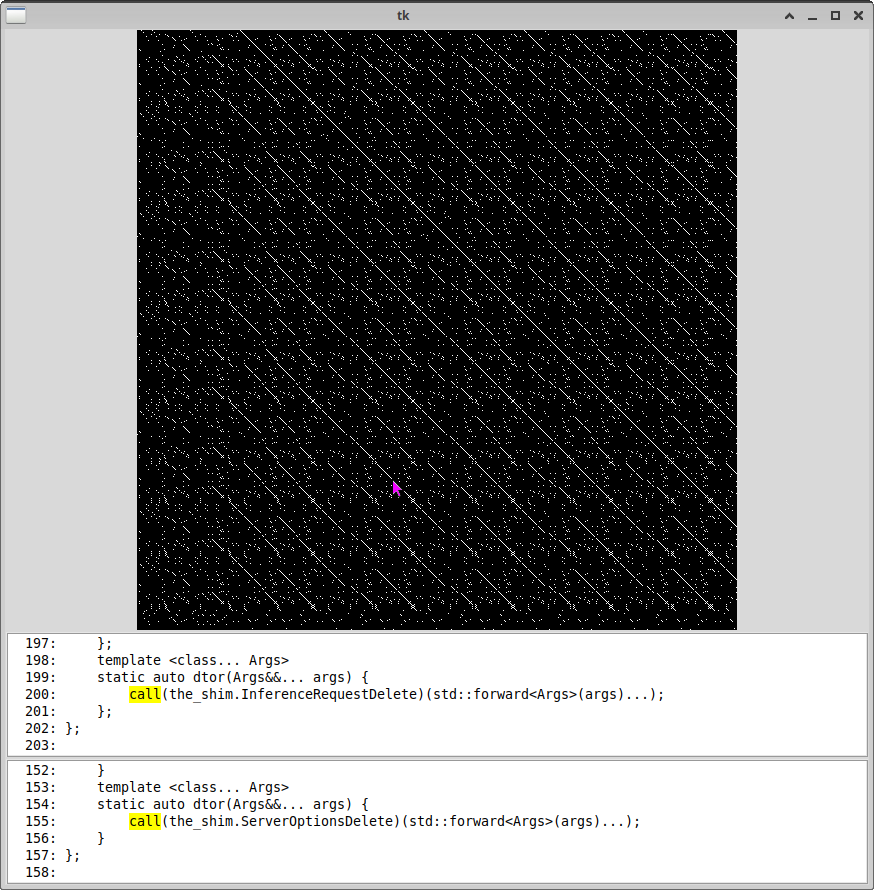
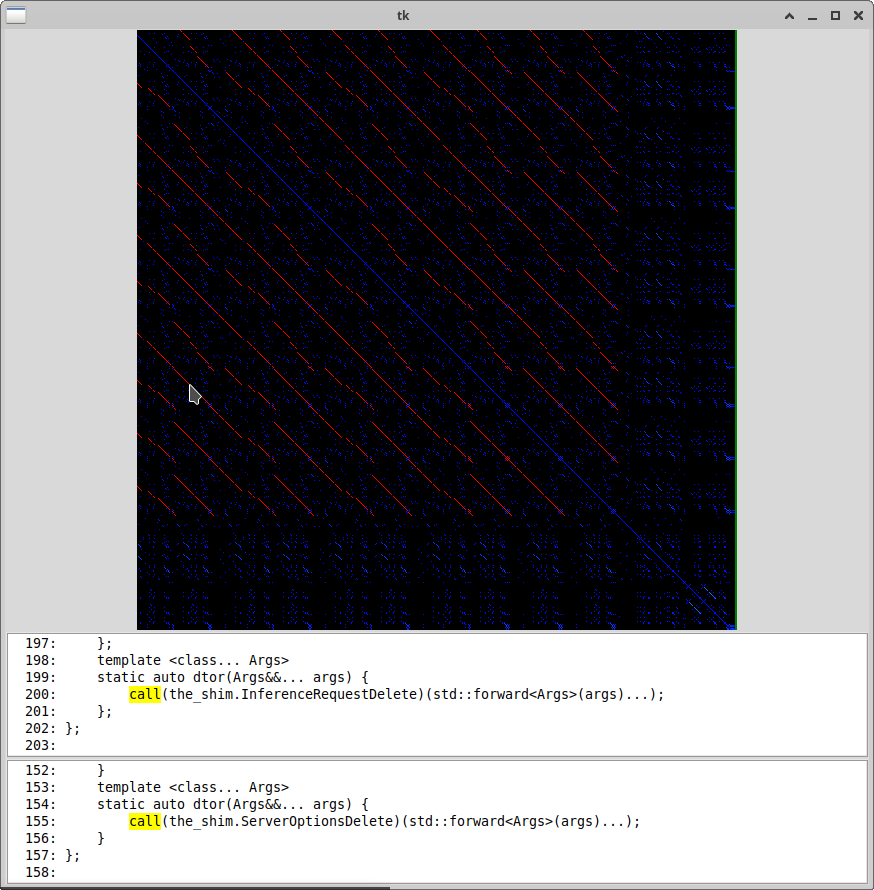
Make color the default, update readme (#20)
* don't colorize large files without the --big_file flag

* update readme: don't color big files without --big_file

* invert the default: have a --black_and_white flag instead of a --color one

* redo readme again

* more tweaks to readme image captions

* fix emoji: markdown doesn't render it

* tweak

* update screenshots

* update readme to explain why one image is in black and white

diff --git a/visual_diff.py b/visual_diff.py
@@ -18,6 +18,9 @@ except ImportError:
     can_use_gui = False
 
 
+PIXELS_IN_BIG_FILE = 50 * 1000 * 1000  # 50 megapixels
+
+
 def parse_args():
     parser = argparse.ArgumentParser()
     parser.add_argument("filename_a", help="File to analyze")
@@ -32,8 +35,8 @@ def parse_args():
                         help="map width/height, in pixels")
     parser.add_argument("--text_width", "-tw", type=int,
                         help="Expected maximum line width, in characters")
-    parser.add_argument("--color", "-c", action="store_true",
-                        help="Color based on the amount of duplication")
+    parser.add_argument("--black_and_white", "-bw", action="store_true",
+                        help="Don't color based on the amount of duplication")
     return parser.parse_args()
 
 
@@ -78,15 +81,23 @@ if __name__ == "__main__":
     # TODO: it might be cool to allow comparisons across languages.
     with open(args.filename_b or args.filename_a) as f_b:
         data_b = tokenizer.get_tokens(f_b.read(), language)
+    pixel_count = len(data_a.tokens) * len(data_b.tokens)
     print(f"Comparing a file with {len(data_a.tokens)} tokens to "
           f"one that has {len(data_b.tokens)}: final image has "
-          f"{len(data_a.tokens) * len(data_b.tokens)} pixels.")
+          f"{pixel_count} pixels.")
     matrix = utils.make_matrix(data_a.tokens, data_b.tokens)
 
-    if args.color:
-        hues = find_duplicates.get_hues(matrix, args.filename_b is None)
-    else:
+    if args.black_and_white:
         hues = None
+    else:
+        if pixel_count > PIXELS_IN_BIG_FILE and not args.big_file:
+            print("WARNING: the image is over 50 megapixels. Coloring very "
+                  "large images can use so many resources that your computer "
+                  "will freeze. To perform this action anyway, use the "
+                  "--big_file flag. To skip coloring and use a "
+                  "black-and-white image, use the --black_and_white flag.")
+            sys.exit(3)
+        hues = find_duplicates.get_hues(matrix, args.filename_b is None)
 
     if args.output_location is None:
         if can_use_gui:
@@ -98,8 +109,7 @@ if __name__ == "__main__":
                   "shell, `import gui`, and see what's going wrong.")
             sys.exit(1)
     else:
-        pixel_count = len(data_a.tokens) * len(data_b.tokens)
-        if pixel_count > 10 * 1000 * 1000 and not args.big_file:
+        if pixel_count > PIXELS_IN_BIG_FILE and not args.big_file:
             print("WARNING: the image is over 10 megapixels. Saving very large "
                   "images can use so many resources that your computer "
                   "will freeze. To perform this action anyway, use the "

diff --git a/README.md b/README.md
@@ -3,6 +3,29 @@ A tool for generating a visual comparison of two files of source code.
 
 ![screenshot of the tool in use](./screenshots/boilerplate.png)
 
+The main program is `visual_diff.py`. You can either specify 1 or 2 different
+filenames containing source code as arguments to it. With 2 files, it compares
+one to the other; with only 1 file it compares the file to itself.
+
+Each file is treated as a sequence of lexical tokens. A token is the smallest
+semantic piece of a program; tokens include keywords like "if" and "for",
+parentheses, variable names, etc. We then generate an image, in which the pixel
+in row i and column j is set if the ith token from the first file and the jth
+token from the second file are equal. All string literals are considered equal
+regardless of their contents; all literal numbers are considered equal, too.
+
+When you run the program, a graphical user interface will open up in which you
+can explore the image. Use the scroll wheel to zoom in and out, click-and-drag
+to pan around, and mouse around the image to explore the code. Quit with
+control-Q or control-W. The intention is for the GUI to be very similar to
+Google Maps, OpenStreetMap, or other map exploration interfaces.
+
+Below the map are two snippets of code, indicating which token(s) your mouse is
+currently pointing to. The top snippet indicates the code for the row that your
+mouse is on, and the bottom snippit is for the column. In large images, as you
+zoom out, multiple tokens will be combined into single pixels in the image, and
+multiple tokens will be highlighted in these snippets.
+
 ## Prerequisites
 You'll need [Tcl/Tk bindings](https://docs.python.org/3/library/tkinter.html)
 for Python. This might require installing something outside of your virtual
@@ -27,58 +50,46 @@ or update it yourself and send us a pull request!).
 ## Options
 The short version: run `visual_diff.py --help` for info.
 
-The main program is `visual_diff.py`. You can either specify 1 or 2 different
-filenames containing source code as arguments to it. With 2 files, it compares
-one to the other; with only 1 file it compares the file to itself. Both files
-should be written in the same language (though I have vague plans to change
-that in the future!).
-
-Each file is treated as a sequence of lexical tokens. A token is the smallest
-semantic piece of a program; tokens include keywords like "if" and "for",
-parentheses, variable names, etc. We then generate an
-image, in which the pixel in row i and column j is set if the ith token from
-the first file and the jth token from the second file are equal. All strings
-are considered equal regardless of their contents; all numbers are considered
-equal, too.
-
-When you run the program, a graphical user interface will open up in which you
-can explore the image. Use the scroll wheel to zoom in and out, click-and-drag
-to pan around, and mouse around the image to explore the code. Quit with
-control-Q or control-W. The intention is for the GUI to be very similar to
-Google Maps, OpenStreetMap, or other map exploration interfaces.
-
 The program can recognize a handful of languages from the file extension (e.g.,
 `.py` or `.go`). If you want to use a language that is not automatically
 recognized, you can do so with the `--language` flag. We use
 [`tree_sitter`](https://tree-sitter.github.io/tree-sitter/) for tokenizing,
 and it supports [many dozens of
 languages](https://github.com/tree-sitter/tree-sitter/wiki/List-of-parsers).
-If manually setting the language is a common annoyance for you, please send us
-a PR with your file extension and language! The place to change is in
-`visual_diff.py`, in the `guess_language` function.
+Both files must be written in the same language (though I have vague plans to
+change that in the future!). If manually setting the language is a common
+annoyance for you, please send us a PR with your file extension and language!
+The place to change is in `visual_diff.py`, in the `guess_language()` function.
+
+By default, the program will attempt to color the pixels of matching tokens:
+blue pixels are probably noise (e.g., two periods that have no other matching
+tokens nearby), whereas red pixels are definitely duplicated code. Sequences of
+pixels get their colors by joining together chains of matching pixels near each
+other. When comparing a single file to itself, the main diagonal is artificially
+suppressed to blue, because of course each token is equal to itself.
+
+The coloring algorithm can be both memory- and time-intensive. For images larger
+than 50 megapixels (roughly 1300 lines of code in each file), we exit with
+warnings, rather than risk having your computer freeze when it runs out of
+memory. To work around this, you can use the `--black_and_white` option to skip
+coloring, or the `--big_file` option to color anyway (but use the latter at your
+own peril!).
 
 If you specify an `--output_location`, then instead of opening the GUI, the
 image will be saved to file and then the program will exit. Most popular image
 formats should work, including `.png`, `.gif`, `.jpg`, and `.bmp`.
 
 Saving images to a file takes much more memory than displaying them to the
-screen (because they involve compression algorithms), so doing this with large
-images can freeze your whole system. So, by default we refuse to save any
-image that is over 10 megapixels. This can be overridden with the `--big_file`
-flag, but **use that at your own peril.**
+screen (because most image formats involve compression algorithms), so doing
+this with large images can again freeze your whole system. By default, we refuse
+to save any image that is over 50 megapixels. This can be overridden with the
+`--big_file` flag, but again **use that at your own peril.**
 
 When using the GUI, you can set the maximum line length for the code displayed
 using the `--text_width` or `-tw` option (default is 100 characters, except
 Python files are 80 characters), and you can set the sidelength, in
 pixels, of the GUI's (square) map view using the `--map_width` or `-mw` option
 (default is 600 pixels).
-
-You can also specify `--color` to get a color image instead of black-and-white.
-Non-matching tokens are still black pixels, but matching ones are colored
-based on how long the estimated chain of matches is: blue indicates a short
-chain (likely noise), up through red for a long one (definitely duplicated
-code). However, the algorithm for computing these colors can be very slow for
-large files, so it is disabled by default.
 
 ## Uses
 Finding code that has been copied and pasted or is otherwise similar enough to
@@ -90,8 +101,7 @@ as diagonal lines in the image.
   code from each other. There are better tools for this task, but `visual_diff`
   is better than nothing.
 - Cheating on homework by making sure that the code you have copied and pasted
-  has been modified enough that it no longer looks copied and pasted.
-  :upside_down_face:
+  has been modified enough that it no longer looks copied and pasted. 🙃
 
 ## Examples
 
@@ -101,7 +111,8 @@ token(s) represented by the pixel the mouse is pointing to.
 
 Boilerplate code that repeats itself a lot clearly looks like it repeats:
 
-![example of boilerplate code](./screenshots/grpc-boilerplate.png)
+![example of boilerplate code with lots of repetition: there are many diagonal
+lines](./screenshots/grpc-boilerplate.png)
 
 Here's a short file compared to a longer file which was created by copying the
 short file and modifying it:
@@ -120,7 +131,9 @@ show up as very regular structures:
 
 If you zoom out in a very large file, each pixel of the map will contain
 multiple tokens within it. Duplicated code will still show up as a diagonal
-line even if the individual pixels only match partially.
+line even if the individual pixels only match partially. This file was large
+enough that I used the `--black_and_white` flag to skip the coloring, which
+saved gigabytes of memory and multiple minutes of startup time.
 
 ![a zoomed-out view shows each pixel represents multiple tokens in the file](./screenshots/multitoken-matching.png)
 
